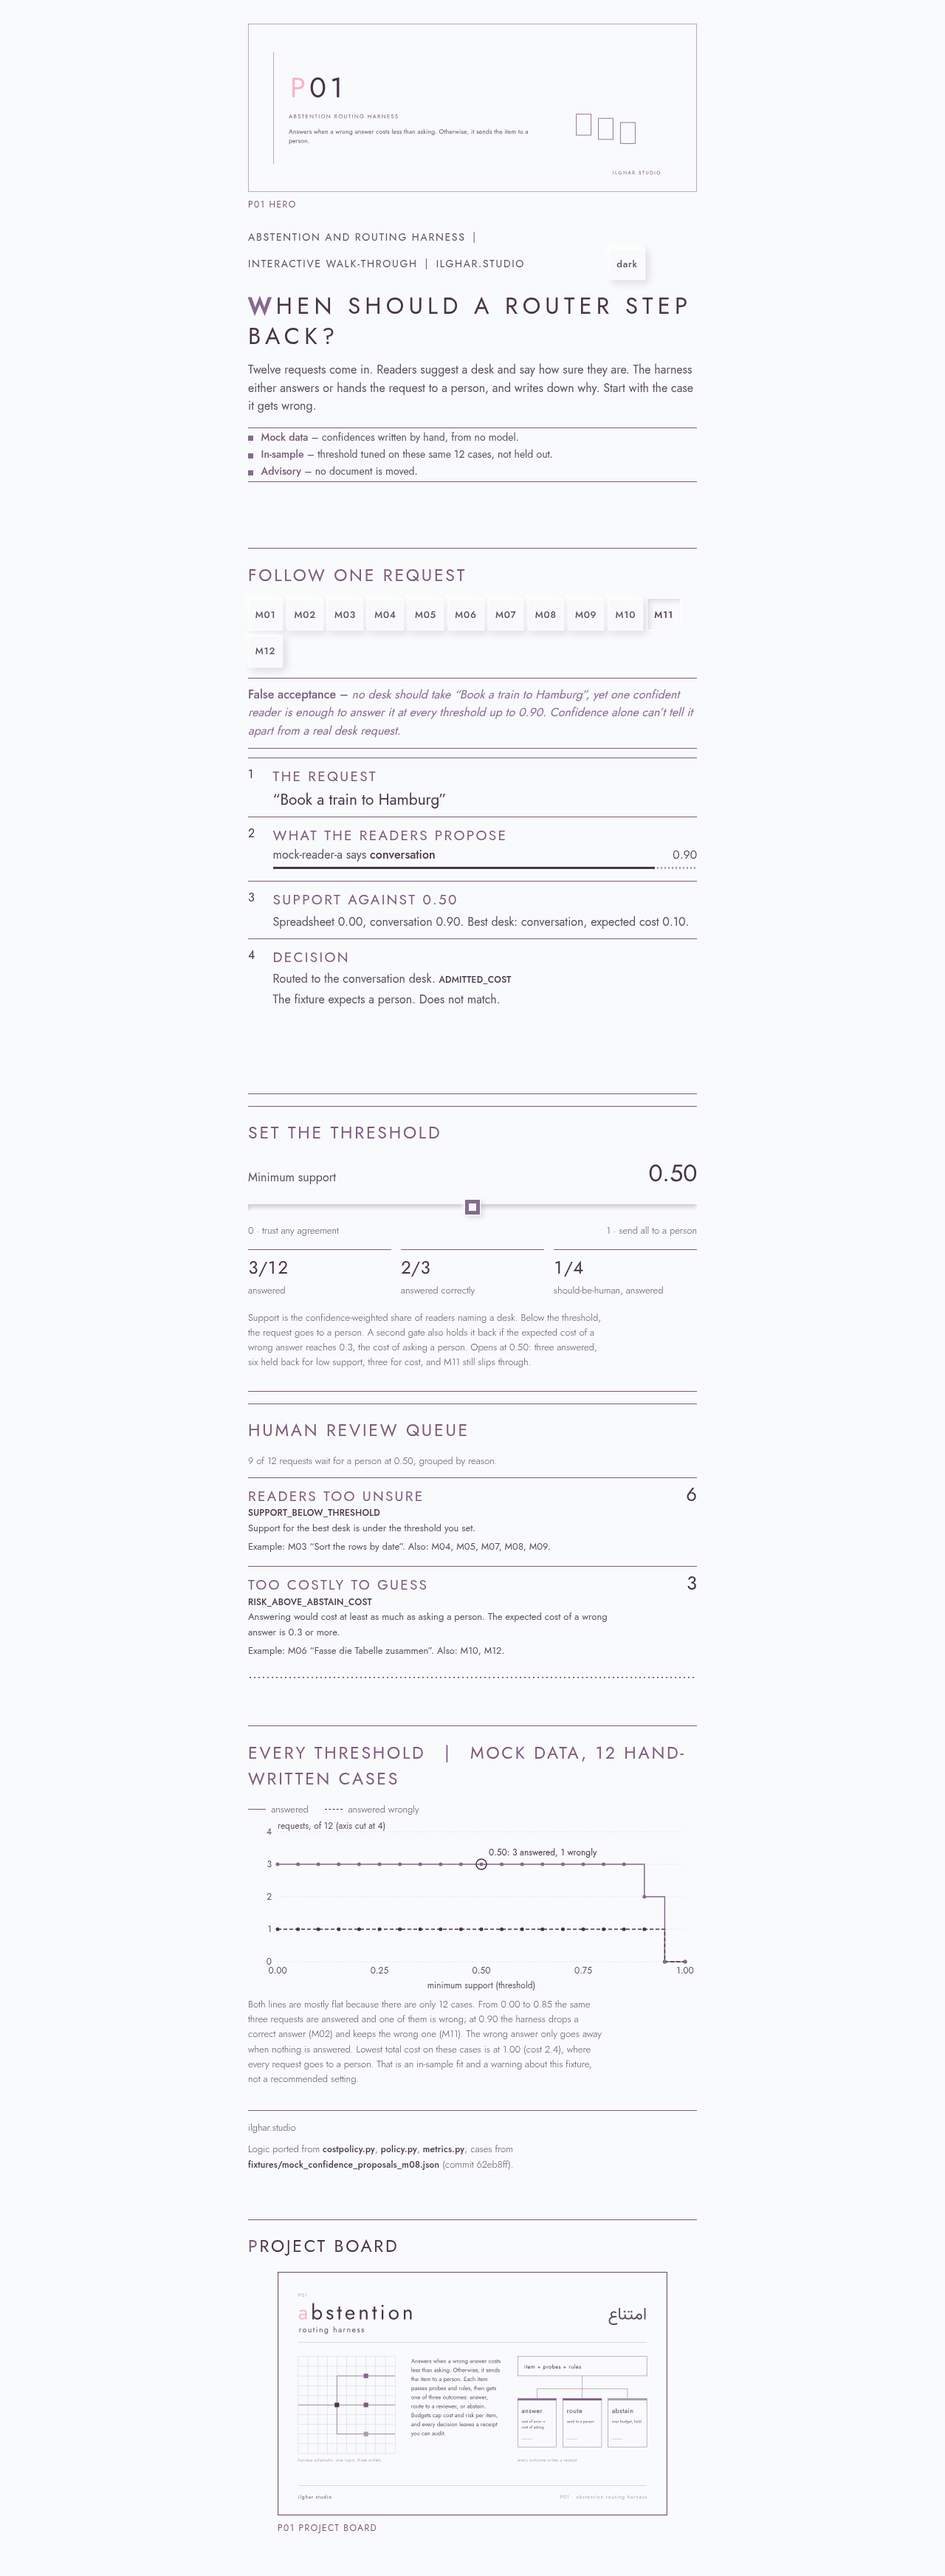
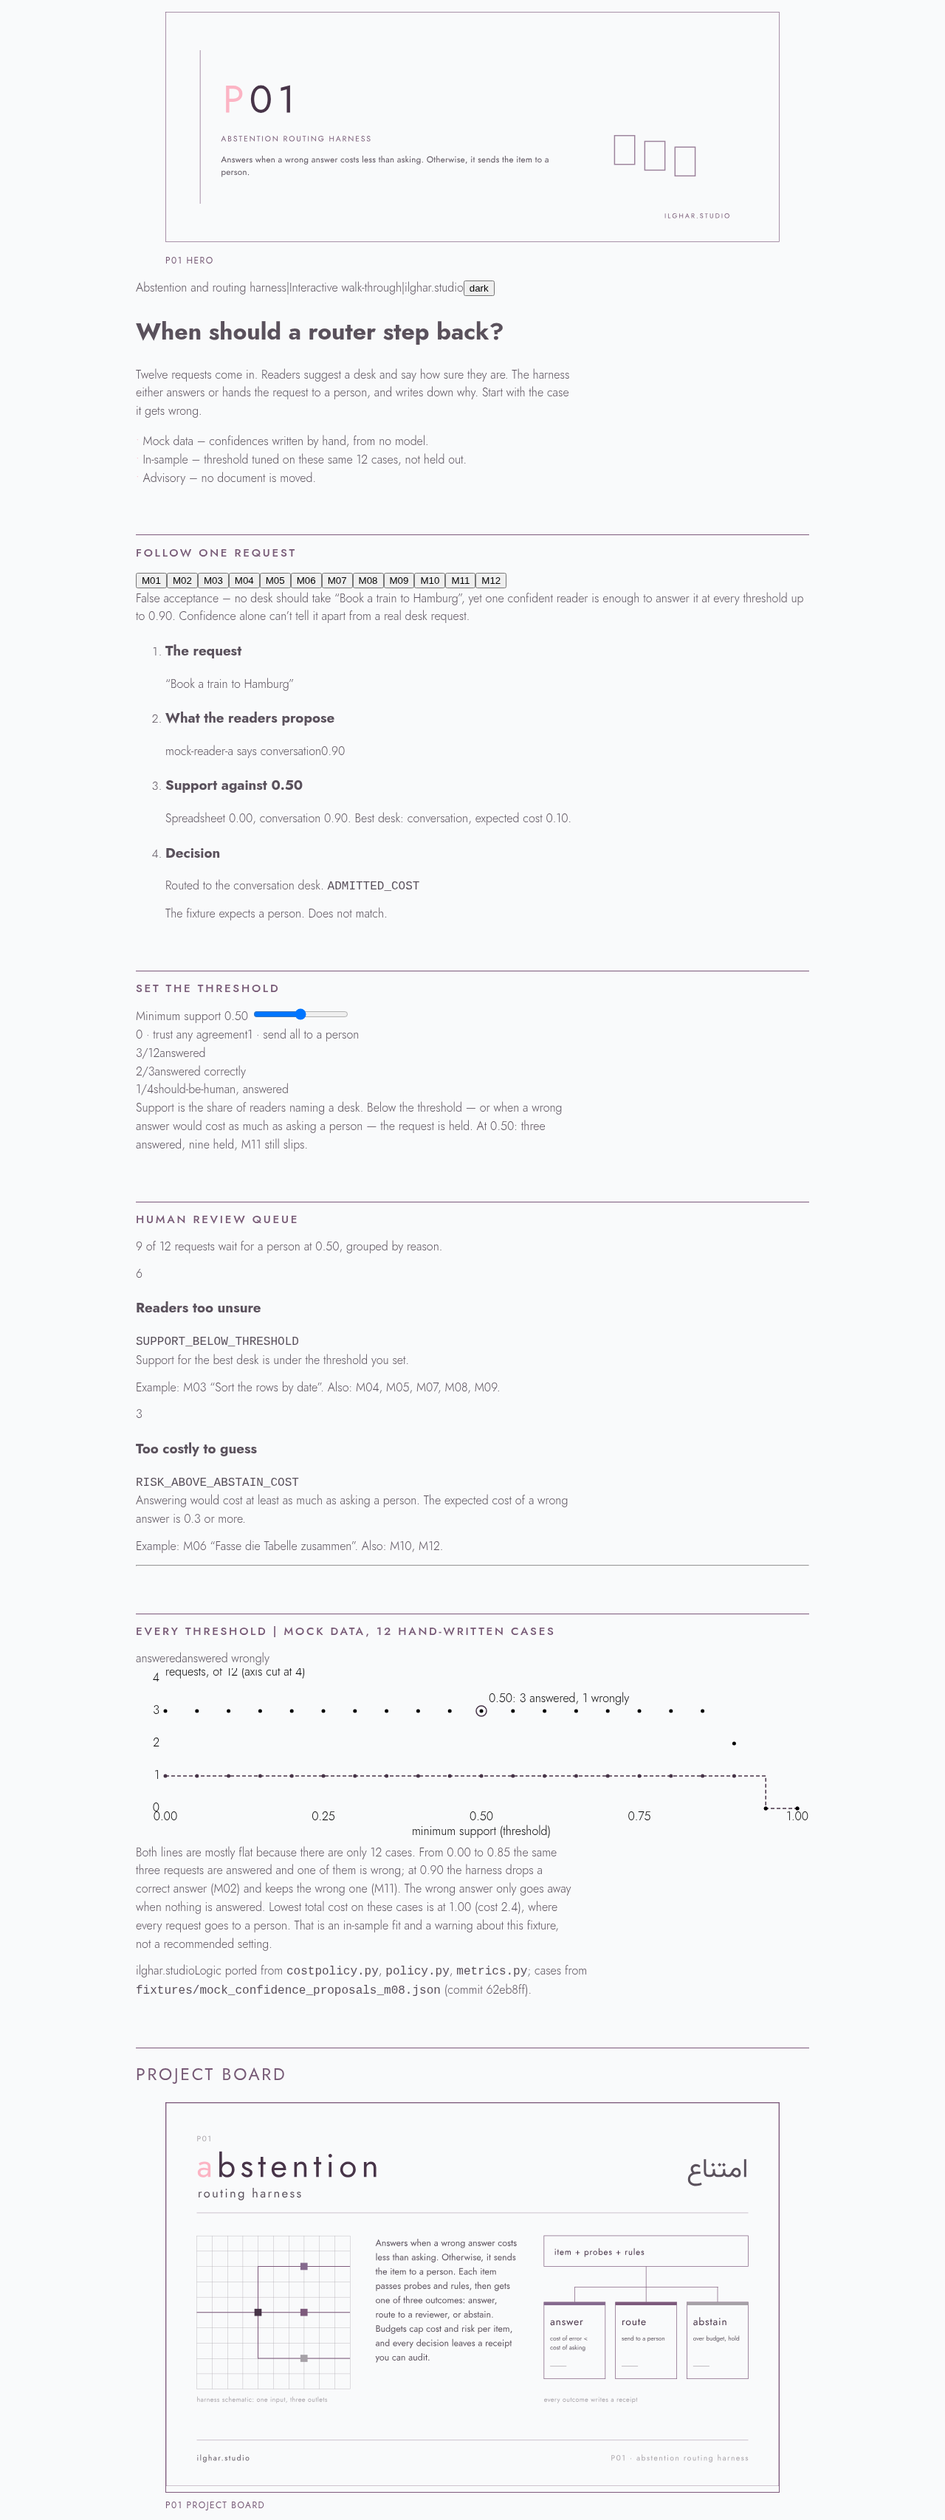
website-ops: demo text/960 + EN professional title
- demo-p01 column 960; trim long threshold and sabat blocks
- EN title → Creative Technologist & Spatial Designer (roles, meta, og, bio)
- German /de/ titles unchanged; no hero SVG edits

diff --git a/public/demos/sabat/index.html b/public/demos/sabat/index.html
@@ -192,19 +192,19 @@ figure.span12 > .hero-art, figure.hero > .hero-art{width:100%}
 </section>
 <section class="conn" aria-labelledby="connH">
   <h2 id="connH">connectors</h2>
-  <p class="note">Each connector is drawn and modelled from the values above. Move the sliders and the angles, bores and lengths recalculate. At the built values every part matches the stage-1 originals. Tags: S product spec or drawing, H Hāèl, C computed from the frame, A assumption.</p>
+  <p class="note">Move the sliders; angles, bores and lengths recalculate. At the built values every part matches stage-1. Tags: S spec, H Hāèl, C computed, A assumption.</p>
   <div id="cpick" role="group" aria-label="Choose a connector" style="display:flex;flex-wrap:wrap;gap:8px;margin:12px 0 16px"><button type="button" data-k="hub5">5-way hub</button><button type="button" data-k="hub6">6-way hub</button><button type="button" data-k="corner">L corner 20A</button><button type="button" data-k="tee">T tee 2A</button><button type="button" data-k="ball">Ball connector</button><button type="button" data-k="peak">Peak connector</button></div>
   <figure><div id="cdraw"></div><figcaption><span id="cname"></span>: technical drawing, front, side and top. Dimensions in mm, angles in degrees. Dashed lines are bores.</figcaption></figure>
   <figure style="margin-top:16px"><canvas id="cx3d" tabindex="0" role="img" aria-label="3D model of the selected connector. Drag to orbit, scroll to zoom."></canvas><figcaption>3D model, live. Drag to orbit, scroll to zoom. <button type="button" id="cstl" style="margin-left:8px">Download STL</button></figcaption></figure>
   <div class="panel" style="margin-top:16px"><h2>computed values</h2><table id="crows"><thead><tr><th>Value</th><th class="n">Now</th><th class="n">Source</th></tr></thead><tbody></tbody></table><p class="note" id="cfoot"></p>
-    <p class="note">Hub and corner angles come from the 2V geometry, so they stay the same at every diameter; only the stick lengths grow. The peak and tee angles follow the peak height against the triangle size. Bores and sizes follow the stick thickness. The STL holds separate shells, not one welded solid.</p></div>
+    <p class="note">Hub and corner angles stay fixed from the 2V geometry; only stick lengths grow. Peak and tee follow height vs triangle size. The STL keeps separate shells.</p></div>
   <div class="panel" style="margin-top:16px"><h2>parts for this version</h2><table id="cparts"><thead><tr><th>Connector</th><th class="n">Count</th></tr></thead><tbody></tbody></table></div>
 </section>
 <figure class="hero"><img src="sabat-pavilion.jpg" width="960" height="595" loading="eager" alt="The SÁBÁT pavilion on a forest meadow: a pavilion frame on wooden legs, its triangles raised into dark knitted peaks, with grey fabric flaps open at the front and rugs and green cushions laid out inside."><figcaption>SÁBÁT pavilion – front view <span aria-hidden="true">|</span> Ø 370 × H 230 cm <span aria-hidden="true">|</span> Photo: Hāèl, portfolio 2024</figcaption></figure>
 <section class="intro" aria-label="About the pavilion">
   <div>
     <blockquote>“SÁBÁT”, a structure commonly found in Yazd, Iran, series of interconnected arches or vaulted ceilings, harmonious blend of hospitality, grace, and cultural resonance.<cite>Hāèl, master thesis, 2024</cite></blockquote>
-    <p>The pavilion has a modular frame base. Six white hubs, the crown and five round the side, each sit at the centre of five knitted pyramids, a star of peaks. The grey triangles between the stars are flat tarps. One side star can be left out to open an entrance. The pavilion stands on short legs. Move the sliders to see how the base changes, and how many struts and connectors each version needs.</p>
+    <p>Six hubs — crown plus five around the side — centre five knitted pyramid stars. Grey tarps fill between; leave one star out for an entrance. Sliders change the base and part counts.</p>
   </div>
   <aside class="facts" aria-label="Built pavilion">
     <h2>the built pavilion</h2>

diff --git a/public/demos/p01/index.html b/public/demos/p01/index.html
@@ -92,9 +92,8 @@ em,.em{font-style:italic;color:var(--em)}
 /* v7 / v3.4: site column, glass + soft-shadow controls, drop caps */
 :root{--dc:#856a8e;--glass:rgba(249,250,251,.55);--glass-edge:rgba(255,255,255,.75);--sh-d:rgba(71,52,72,.16);--sh-l:rgba(255,255,255,.9);--well:rgba(71,52,72,.10)}
 [data-theme=dark]{--dc:#856a8e;--glass:rgba(48,45,52,.55);--glass-edge:rgba(255,255,255,.10);--sh-d:rgba(0,0,0,.38);--sh-l:rgba(255,255,255,.06);--well:rgba(0,0,0,.28)}
-main{max-width:448px;padding-left:16px;padding-right:16px}
-@media (min-width:768px){main{max-width:576px;padding-left:32px;padding-right:32px}}
-@media (min-width:1024px){main{max-width:672px}}
+main{max-width:960px;margin:0 auto;padding-left:16px;padding-right:16px;box-sizing:border-box}
+@media (min-width:768px){main{max-width:960px;padding-left:32px;padding-right:32px}}
 .intro,.app,.counts,.grid{grid-template-columns:minmax(0,1fr)!important}
 .views{grid-template-columns:minmax(0,1fr)!important}
 @media (min-width:768px){.views{grid-template-columns:1fr 1fr!important;gap:16px}.counts{grid-template-columns:1fr 1fr!important}.counts>:last-child{grid-column:1/-1}}
@@ -155,7 +154,7 @@ figure.span12 > .hero-art, figure.hero > .hero-art{width:100%}
   <input id="t" type="range" min="0" max="20" step="1" value="10" aria-describedby="t-help" aria-valuetext="0.50">
   <div class="scale" aria-hidden="true"><span>0 · trust any agreement</span><span>1 · send all to a person</span></div>
   <div class="kpis" aria-live="polite" id="kpis"></div>
-  <p id="t-help" class="small">Support is the confidence-weighted share of readers naming a desk. Below the threshold, the request goes to a person. A second gate also holds it back if the expected cost of a wrong answer reaches 0.3, the cost of asking a person. Opens at 0.50: three answered, six held back for low support, three for cost, and M11 still slips through.</p>
+  <p id="t-help" class="small">Support is the share of readers naming a desk. Below the threshold — or when a wrong answer would cost as much as asking a person — the request is held. At 0.50: three answered, nine held, M11 still slips.</p>
 </section>
 <section class="panel" aria-labelledby="h-q">
   <h2 class="title" id="h-q">Human review queue</h2>

diff --git a/src/lib/i18n.ts b/src/lib/i18n.ts
@@ -3,21 +3,21 @@ export type Lang = "en" | "de";
 export const copy = {
   handle: { en: "ilghar.studio", de: "ilghar.studio" },
   roles: {
-    en: "Curator · Designer · Sculptor",
+    en: "Creative Technologist & Spatial Designer",
     de: "Kurator*in · Designer*in · Bildhauer*in",
   },
   location: { en: "Berlin", de: "Berlin" },
-  // PROVISIONAL (brief-site-home-v3.md): the "AI designer" title is not yet confirmed by Hāèl.
+  // Professional title confirmed by Hāèl (EN). German /de/ title left unchanged pending his choice.
   metaTitle: {
-    en: "Ilghar Dadgostari: AI designer, Berlin | ilghar.studio",
+    en: "Ilghar Dadgostari: Creative Technologist & Spatial Designer, Berlin | ilghar.studio",
     de: "Ilghar Dadgostari: AI Designer*in, Berlin | ilghar.studio",
   },
   metaDescription: {
-    en: "Ilghar Dadgostari, a Berlin-based AI designer, checks generated design against facts a typographer and an architect can measure, before anyone argues about taste.",
+    en: "Ilghar Dadgostari, a Berlin-based Creative Technologist & Spatial Designer, checks generated design against facts a typographer and an architect can measure, before anyone argues about taste.",
     de: "Ilghar Dadgostari, AI Designer*in in Berlin, prüft generiertes Design an Fakten, die Typograf*innen und Architekt*innen messen können, bevor über Geschmack gestritten wird.",
   },
   bio: {
-    en: "Queer-feminist curator, designer and sculptor. Practice at the intersections of art, culture and social justice — shaping spaces for intercultural dialogue and a more pluriversal world.",
+    en: "Queer-feminist Creative Technologist & Spatial Designer. Practice at the intersections of art, culture and social justice — shaping spaces for intercultural dialogue and a more pluriversal world.",
     de: "Queer-feministische Kurator*in, Designer*in und Bildhauer*in. Praxis an den Verflechtungen von Kunst, Kultur und sozialer Gerechtigkeit — Räume für interkulturellen Dialog und eine pluriversale Gesellschaft.",
   },
   notesTitle: { en: "Studio notes", de: "Studio-Notizen" },
